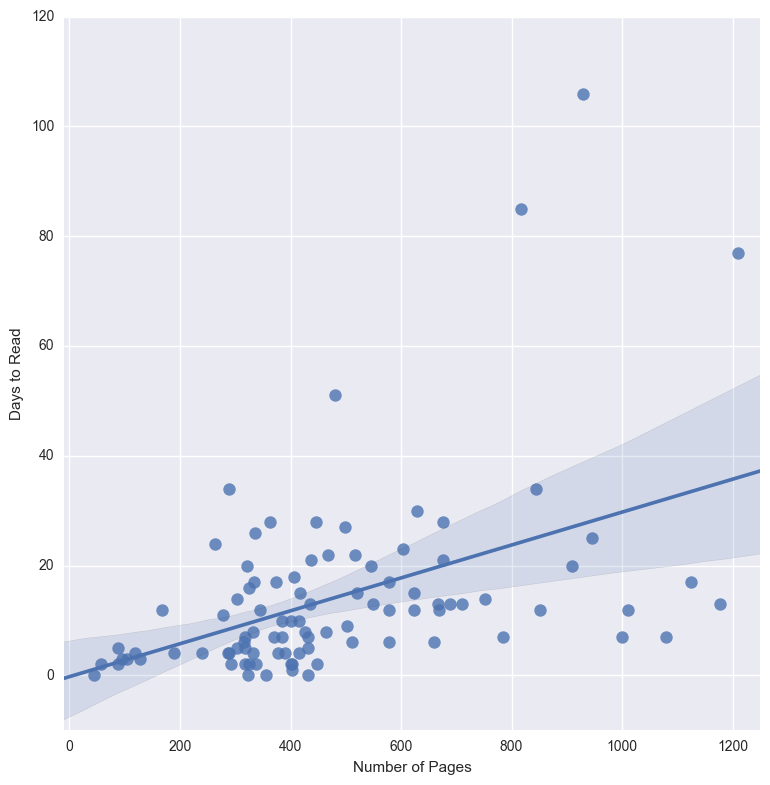
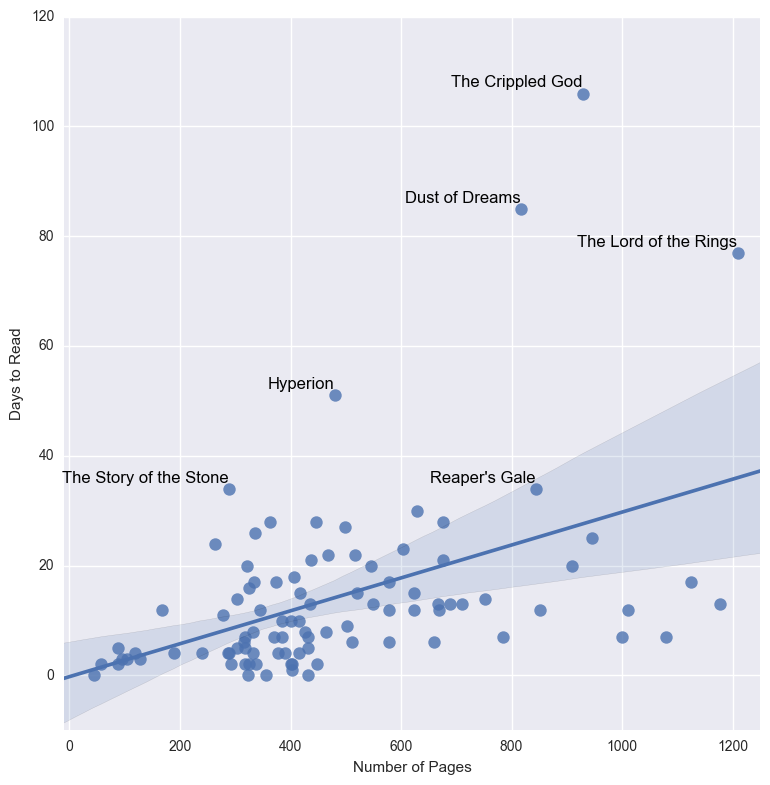
additions to explore.py: reading rate and figure labels

diff --git a/explore.py b/explore.py
@@ -11,6 +11,7 @@ from nltk.stem.porter import PorterStemmer
 import string
 from utilities import my_replacements
 from collections import OrderedDict
+import numpy as np
 
 # Load data extracted from API (118 reviews)
 with open('reviews.pkl','r') as f:
@@ -81,9 +82,17 @@ g = (g.set(xlim=(-10, 1250), ylim=(-10, 120))
      .set_ylabels('Days to Read'))
 
 # Labels on longest to read
-
+longest = df[(df['timespan'] > 30) & (df['number_pages'].notnull())]
+for x, y, t in zip(longest['number_pages'].tolist(), longest['timespan'].tolist(),
+                   longest['title'].map(lambda x: x.split('(')[0].strip()).tolist()):
+    plt.text(x-1, y+2, t, color='k', ha='right', va='center')
 
 g.savefig('figures/reading_rate.png')
 
 # Shortest reads (some may be in error)
 df[df['timespan'] < 2]
+
+# Reading rate over time
+df['rate'] = df['number_pages']/df['timespan']
+df.replace([np.inf, -np.inf], np.nan, inplace=True)  # Fixing infinite values
+df.groupby(by='year_read', axis=0)[['timespan','number_pages','rate']].mean()
